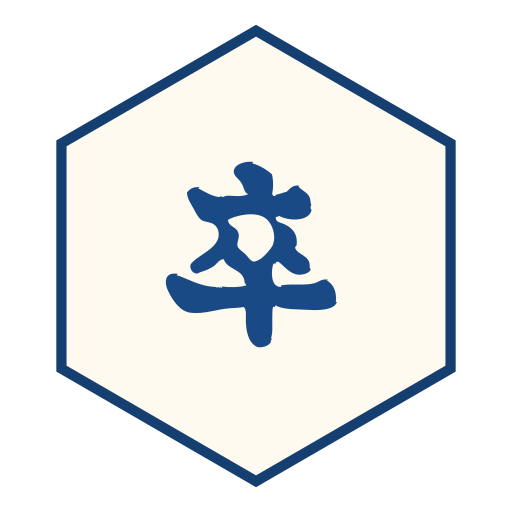
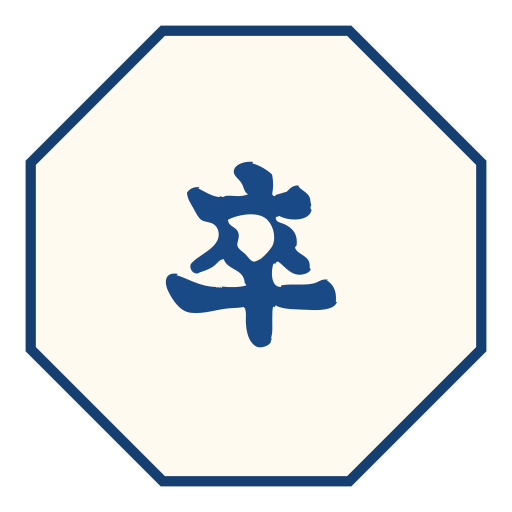
Change Janggi pieces from hexagon to octagon shape
Update the piece outline polygon in the asset generator from a 6-point
hexagon to an 8-point octagon, regenerate all cursive and modern SVG/PNG
assets, and update the changelog wording.

Changed region(s): [[0.0312, 0.0312, 0.9688, 0.9688]]

diff --git a/webapp/src/main/resources/templates/about/changelog.html b/webapp/src/main/resources/templates/about/changelog.html
@@ -23,7 +23,7 @@
     <h4>2026-11-01</h4>
     <ul>
         <li>
-            Add Janggi piece asset generator and initial hex piece sets. Tune cursive piece sizing and modern PNG rendering.
+            Add Janggi piece asset generator and initial octagon piece sets. Tune cursive piece sizing and modern PNG rendering.
             (<a href="https://github.com/benckx/elephantchess/pull/933" target="_blank">PR #933</a>,
             <a href="https://github.com/benckx/elephantchess/issues/285" target="_blank">Issue #285</a>)
         </li>
